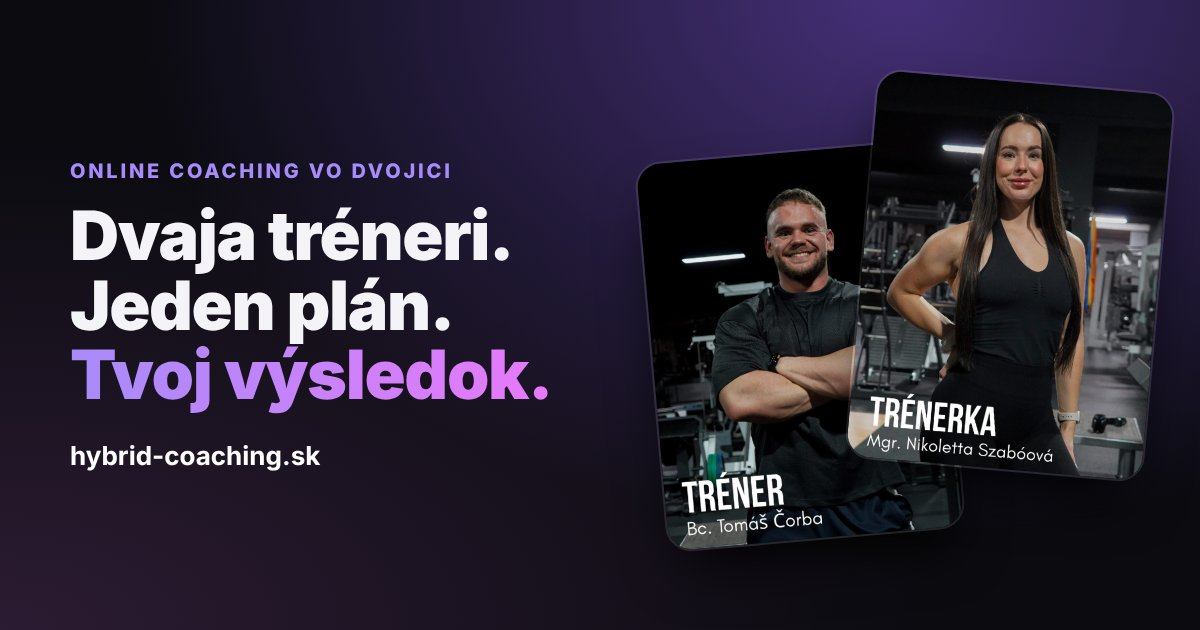
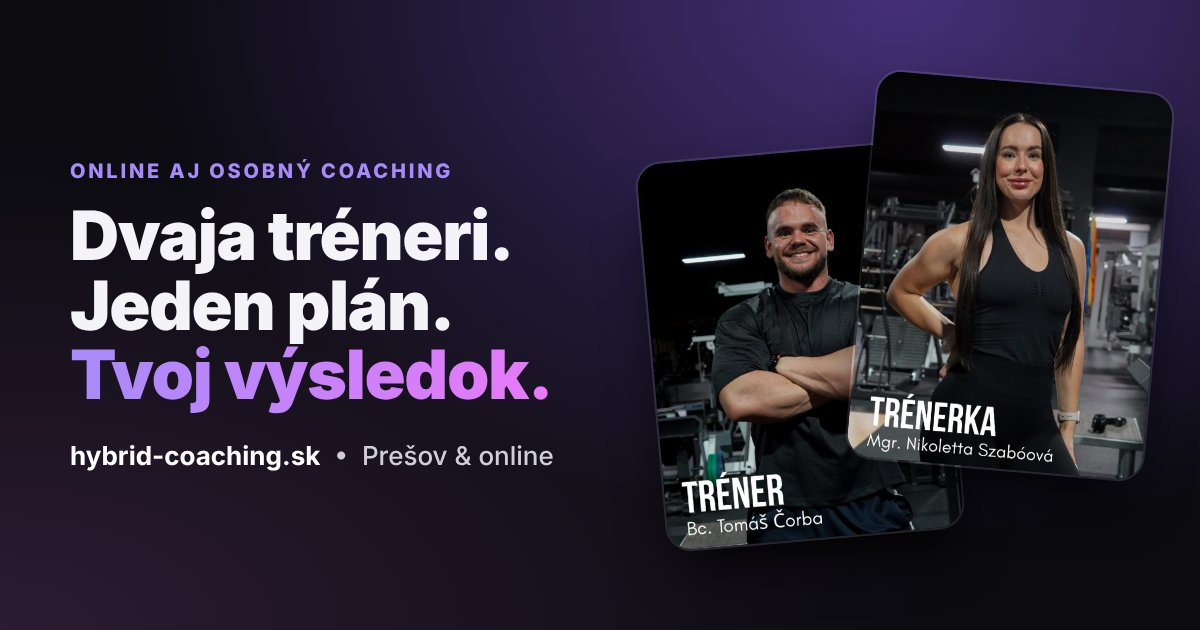
Hybrid = online aj osobne, pár a spolumajitelia fitka
Claude-Session: https://claude.ai/code/session_01WbgYiUGH8cczWVDhop5ArR

Changed region(s): [[0.1233, 0.2413, 0.37, 0.3016], [0.2775, 0.6937, 0.4625, 0.754]]

diff --git a/index.html b/index.html
@@ -4,8 +4,8 @@
 <meta charset="UTF-8">
 <meta name="viewport" content="width=device-width, initial-scale=1">
 <title>Hybrid Coaching | Online tréning a strava na mieru</title>
-<meta name="description" content="Online coaching vo dvojici: tréningový plán na mieru v appke, nastavenie stravy a pravidelné check-iny. Tomáš (Coach Big) a Nikoletta Szabóová.">
-<meta property="og:title" content="Hybrid Coaching | Online tréneri">
+<meta name="description" content="Hybrid Coaching: online aj osobný tréning v Prešove. Tréningový plán v appke, strava na mieru a check-iny. Tréneri Tomáš (Coach Big) a Nikoletta Szabóová.">
+<meta property="og:title" content="Hybrid Coaching | Online aj osobný tréning">
 <meta property="og:description" content="Tréning + strava na mieru. Dvaja tréneri, jeden plán, tvoj výsledok.">
 <meta property="og:url" content="https://hybrid-coaching.sk">
 <meta property="og:type" content="website">
@@ -124,6 +124,11 @@ nav .wrap{display:flex;align-items:center;justify-content:space-between;height:6
 .price-card li::before{content:"";position:absolute;left:0;top:13px;width:14px;height:8px;border-left:2px solid var(--accent2);border-bottom:2px solid var(--accent2);transform:rotate(-45deg)}
 .price-card .btn{width:100%}
 
+.personal{margin-top:18px;display:flex;gap:24px;align-items:center;justify-content:space-between;background:linear-gradient(120deg,rgba(139,92,246,.14),var(--card) 60%)}
+.personal h3{font-size:21px}
+.personal .btn{flex-shrink:0}
+@media(max-width:760px){.personal{flex-direction:column;align-items:stretch}}
+
 /* app shots */
 .app-head{text-align:center;max-width:680px;margin:0 auto 44px}
 .app-head .lead{margin:0 auto}
@@ -234,9 +239,9 @@ footer a:hover{color:var(--text)}
 <header class="hero">
   <div class="wrap hero-grid">
    <div>
-    <span class="eyebrow anim">Online coaching vo dvojici</span>
+    <span class="eyebrow anim">Online aj osobný coaching</span>
     <h1 class="anim a2">Dvaja tréneri.<br>Jeden plán.<br><span class="grad">Tvoj výsledok.</span></h1>
-    <p class="lead anim a3">Tréning a strava na mieru, ktoré do seba zapadajú. Plán máš v appke, každý týždeň ho spolu vyhodnotíme a upravíme. Bez extrémov a bez hádania.</p>
+    <p class="lead anim a3">Tréning a strava na mieru, online odkiaľkoľvek alebo osobne v našom fitku v Prešove. Plán máš v appke, každý týždeň ho spolu vyhodnotíme a upravíme. Bez extrémov a bez hádania.</p>
     <div class="hero-ctas anim a4">
       <a href="#kontakt" class="btn btn-primary">Chcem bezplatnú konzultáciu</a>
       <a href="#cennik" class="btn btn-ghost">Pozrieť balíky</a>
@@ -244,7 +249,7 @@ footer a:hover{color:var(--text)}
     <div class="trust anim a5">
       <div><b>Desiatky</b>odtrénovaných klientov</div>
       <div><b>10+ rokov</b>praxe</div>
-      <div><b>100 %</b>online, odkiaľkoľvek</div>
+      <div><b>Online aj osobne</b>v Prešove a odkiaľkoľvek</div>
     </div>
    </div>
    <div class="hero-photos">
@@ -272,14 +277,18 @@ footer a:hover{color:var(--text)}
   <div class="wrap">
     <span class="eyebrow reveal">Kto sme</span>
     <h2 class="reveal">Prečo „hybrid“?</h2>
-    <p class="lead reveal">Lebo nedostaneš jedného trénera, ale dvoch. Na tvoj plán sa pozrú dve hlavy a spolu ti zostavíme tréning aj stravu, ktoré do seba zapadajú.</p>
+    <p class="lead reveal">Sme pár v živote aj v tréningu a spolu vedieme fitness centrum v Prešove. „Hybrid“ pre nás znamená dve veci:</p>
+    <div class="grid g2 why" style="margin-top:26px">
+      <div class="reveal card"><div class="num">2</div><h3>Dvaja tréneri, jeden plán</h3><p class="muted">Na tvoj plán sa pozrú dve hlavy. Spolu ti zostavíme tréning aj stravu, ktoré do seba zapadajú.</p></div>
+      <div class="reveal d1 card"><div class="num">⇄</div><h3>Online aj osobne</h3><p class="muted">Trénuj online odkiaľkoľvek, osobne s nami v Prešove, alebo kombinuj oboje. Plán aj progres máš stále v jednej appke.</p></div>
+    </div>
     <div class="grid g2" style="margin-top:36px">
       <div class="reveal card coach">
         <div class="photo"><img src="img/tomas.jpg" alt="Tréner Bc. Tomáš Čorba" loading="lazy"></div>
         <div>
           <h3>Bc. Tomáš „Coach Big“ Čorba</h3>
         </div>
-        <p class="muted">Osobný tréner a majiteľ fitness centra v Prešove. Pomáham ľuďom zhodiť tuk, nabrať silu a postavu bez extrémov. Stavím na poctivý silový tréning, jasný plán a pravidelnú kontrolu, aby si presne vedel, čo robiť a prečo.</p>
+        <p class="muted">Osobný tréner a spolumajiteľ fitness centra v Prešove. Pomáham ľuďom zhodiť tuk, nabrať silu a postavu bez extrémov. Stavím na poctivý silový tréning, jasný plán a pravidelnú kontrolu, aby si presne vedel, čo robiť a prečo.</p>
         <a class="ig" href="https://instagram.com/coach__big" target="_blank" rel="noopener">@coach__big →</a>
       </div>
       <div class="reveal d1 card coach">
@@ -287,7 +296,7 @@ footer a:hover{color:var(--text)}
         <div>
           <h3>Mgr. Nikoletta Szabóová</h3>
         </div>
-        <p class="muted">Trénerka a spoluzakladateľka Hybrid Coaching. Pomáha klientom vybudovať silné a zdravé telo s prístupom, ktorý sa dá dlhodobo udržať v bežnom živote, bez drastických diét a výčitiek.</p>
+        <p class="muted">Trénerka a spolumajiteľka fitness centra v Prešove. Pomáha klientom vybudovať silné a zdravé telo s prístupom, ktorý sa dá dlhodobo udržať v bežnom živote, bez drastických diét a výčitiek.</p>
         <a class="ig" href="https://instagram.com/nszaboova" target="_blank" rel="noopener">@nszaboova →</a>
       </div>
     </div>
@@ -332,7 +341,7 @@ footer a:hover{color:var(--text)}
   <div class="wrap">
     <span class="eyebrow reveal">Cenník</span>
     <h2 class="reveal">Vyber si balík</h2>
-    <p class="lead reveal">Všetky balíky sú na 1 mesiac a môžeš ich kedykoľvek predĺžiť.</p>
+    <p class="lead reveal">Online balíky sú na 1 mesiac a môžeš ich kedykoľvek predĺžiť.</p>
     <div class="grid g3" style="margin-top:40px">
       <div class="reveal card price-card">
         <h3>Basic</h3>
@@ -374,6 +383,12 @@ footer a:hover{color:var(--text)}
         <a href="#kontakt" class="btn btn-ghost">Mám záujem</a>
       </div>
     </div>
+    <div class="reveal card personal">
+      <div><span class="eyebrow" style="margin-bottom:6px">Osobne v Prešove</span>
+      <h3>Chceš trénovať aj s nami vo fitku?</h3>
+      <p class="muted">Osobné tréningy vieme spojiť s online coachingom: časť tréningov s nami, zvyšok podľa plánu v appke. Cenu a počet tréningov dohodneme na konzultácii.</p></div>
+      <a href="#kontakt" class="btn btn-primary">Mám záujem o osobné tréningy</a>
+    </div>
   </div>
 </section>
 
@@ -383,6 +398,7 @@ footer a:hover{color:var(--text)}
     <h2 class="reveal">Máš otázku?</h2>
     <div style="margin-top:30px">
       <details class="reveal"><summary>Je coaching vhodný aj pre začiatočníkov?</summary><p>Áno. Plán prispôsobíme tvojim skúsenostiam a ku každému cviku máš popis techniky. Technika sa dá skontrolovať aj z videa.</p></details>
+      <details class="reveal"><summary>Dá sa s vami trénovať aj osobne?</summary><p>Áno. Sme spolumajitelia fitness centra v Prešove, takže môžeš trénovať osobne s nami, iba online, alebo kombinovať oboje. Všetko dohodneme na bezplatnej konzultácii.</p></details>
       <details class="reveal"><summary>Potrebujem chodiť do fitka?</summary><p>Nie nevyhnutne. Plán vieme pripraviť do fitka aj na doma, podľa toho, aké vybavenie máš.</p></details>
       <details class="reveal"><summary>Ako funguje strava? Budem musieť vážiť jedlo?</summary><p>Strava je nastavená podľa tvojho cieľa a režimu. Nemusíš držať drastickú diétu ani jesť to, čo nemáš rád. Ako presne budeš stravu sledovať, sa dohodneme podľa toho, čo ti vyhovuje.</p></details>
       <details class="reveal"><summary>Ako rýchlo uvidím výsledky?</summary><p>Prvé zmeny v sile a energii väčšina klientov pocíti po 2–4 týždňoch. Viditeľné zmeny postavy prichádzajú zvyčajne po 6–12 týždňoch pravidelnej práce.</p></details>
@@ -420,9 +436,11 @@ footer a:hover{color:var(--text)}
             <select id="f-ciel" name="hlavny_ciel" required><option value="">Vyber…</option><option>Schudnúť / zhodiť tuk</option><option>Nabrať svaly</option><option>Zlepšiť silu a výkon</option><option>Zlepšiť kondíciu a zdravie</option><option>Formovanie postavy</option><option>Iné</option></select></div>
           <div class="field"><label for="f-skusenosti">Ako dlho cvičíš?</label>
             <select id="f-skusenosti" name="ako_dlho_cvici" required><option value="">Vyber…</option><option>Začínam / necvičím</option><option>Menej ako 1 rok</option><option>1–3 roky</option><option>Viac ako 3 roky</option></select></div>
+          <div class="field"><label for="f-forma">Forma spolupráce</label>
+            <select id="f-forma" name="forma_spoluprace" required><option value="">Vyber…</option><option>Online</option><option>Osobne v Prešove</option><option>Kombinácia online + osobne</option><option>Ešte neviem</option></select></div>
           <div class="field"><label for="f-kde">Kde budeš trénovať?</label>
             <select id="f-kde" name="kde_trenuje" required><option value="">Vyber…</option><option>Vo fitku</option><option>Doma</option><option>Kombinácia</option></select></div>
-          <div class="field"><label for="f-dni">Koľkokrát týždenne môžeš trénovať?</label>
+          <div class="field full"><label for="f-dni">Koľkokrát týždenne môžeš trénovať?</label>
             <select id="f-dni" name="treningov_tyzdenne" required><option value="">Vyber…</option><option>2×</option><option>3×</option><option>4×</option><option>5× a viac</option></select></div>
           <div class="field full"><label for="f-dosiahnut">Čo by si chcel/a dosiahnuť? <span class="opt">(čím konkrétnejšie, tým lepšie)</span></label>
             <textarea id="f-dosiahnut" name="co_chce_dosiahnut" required placeholder="Napr. zhodiť 8 kg do leta, zvládnuť prvý príťah, cítiť sa lepšie vo vlastnom tele…"></textarea></div>
